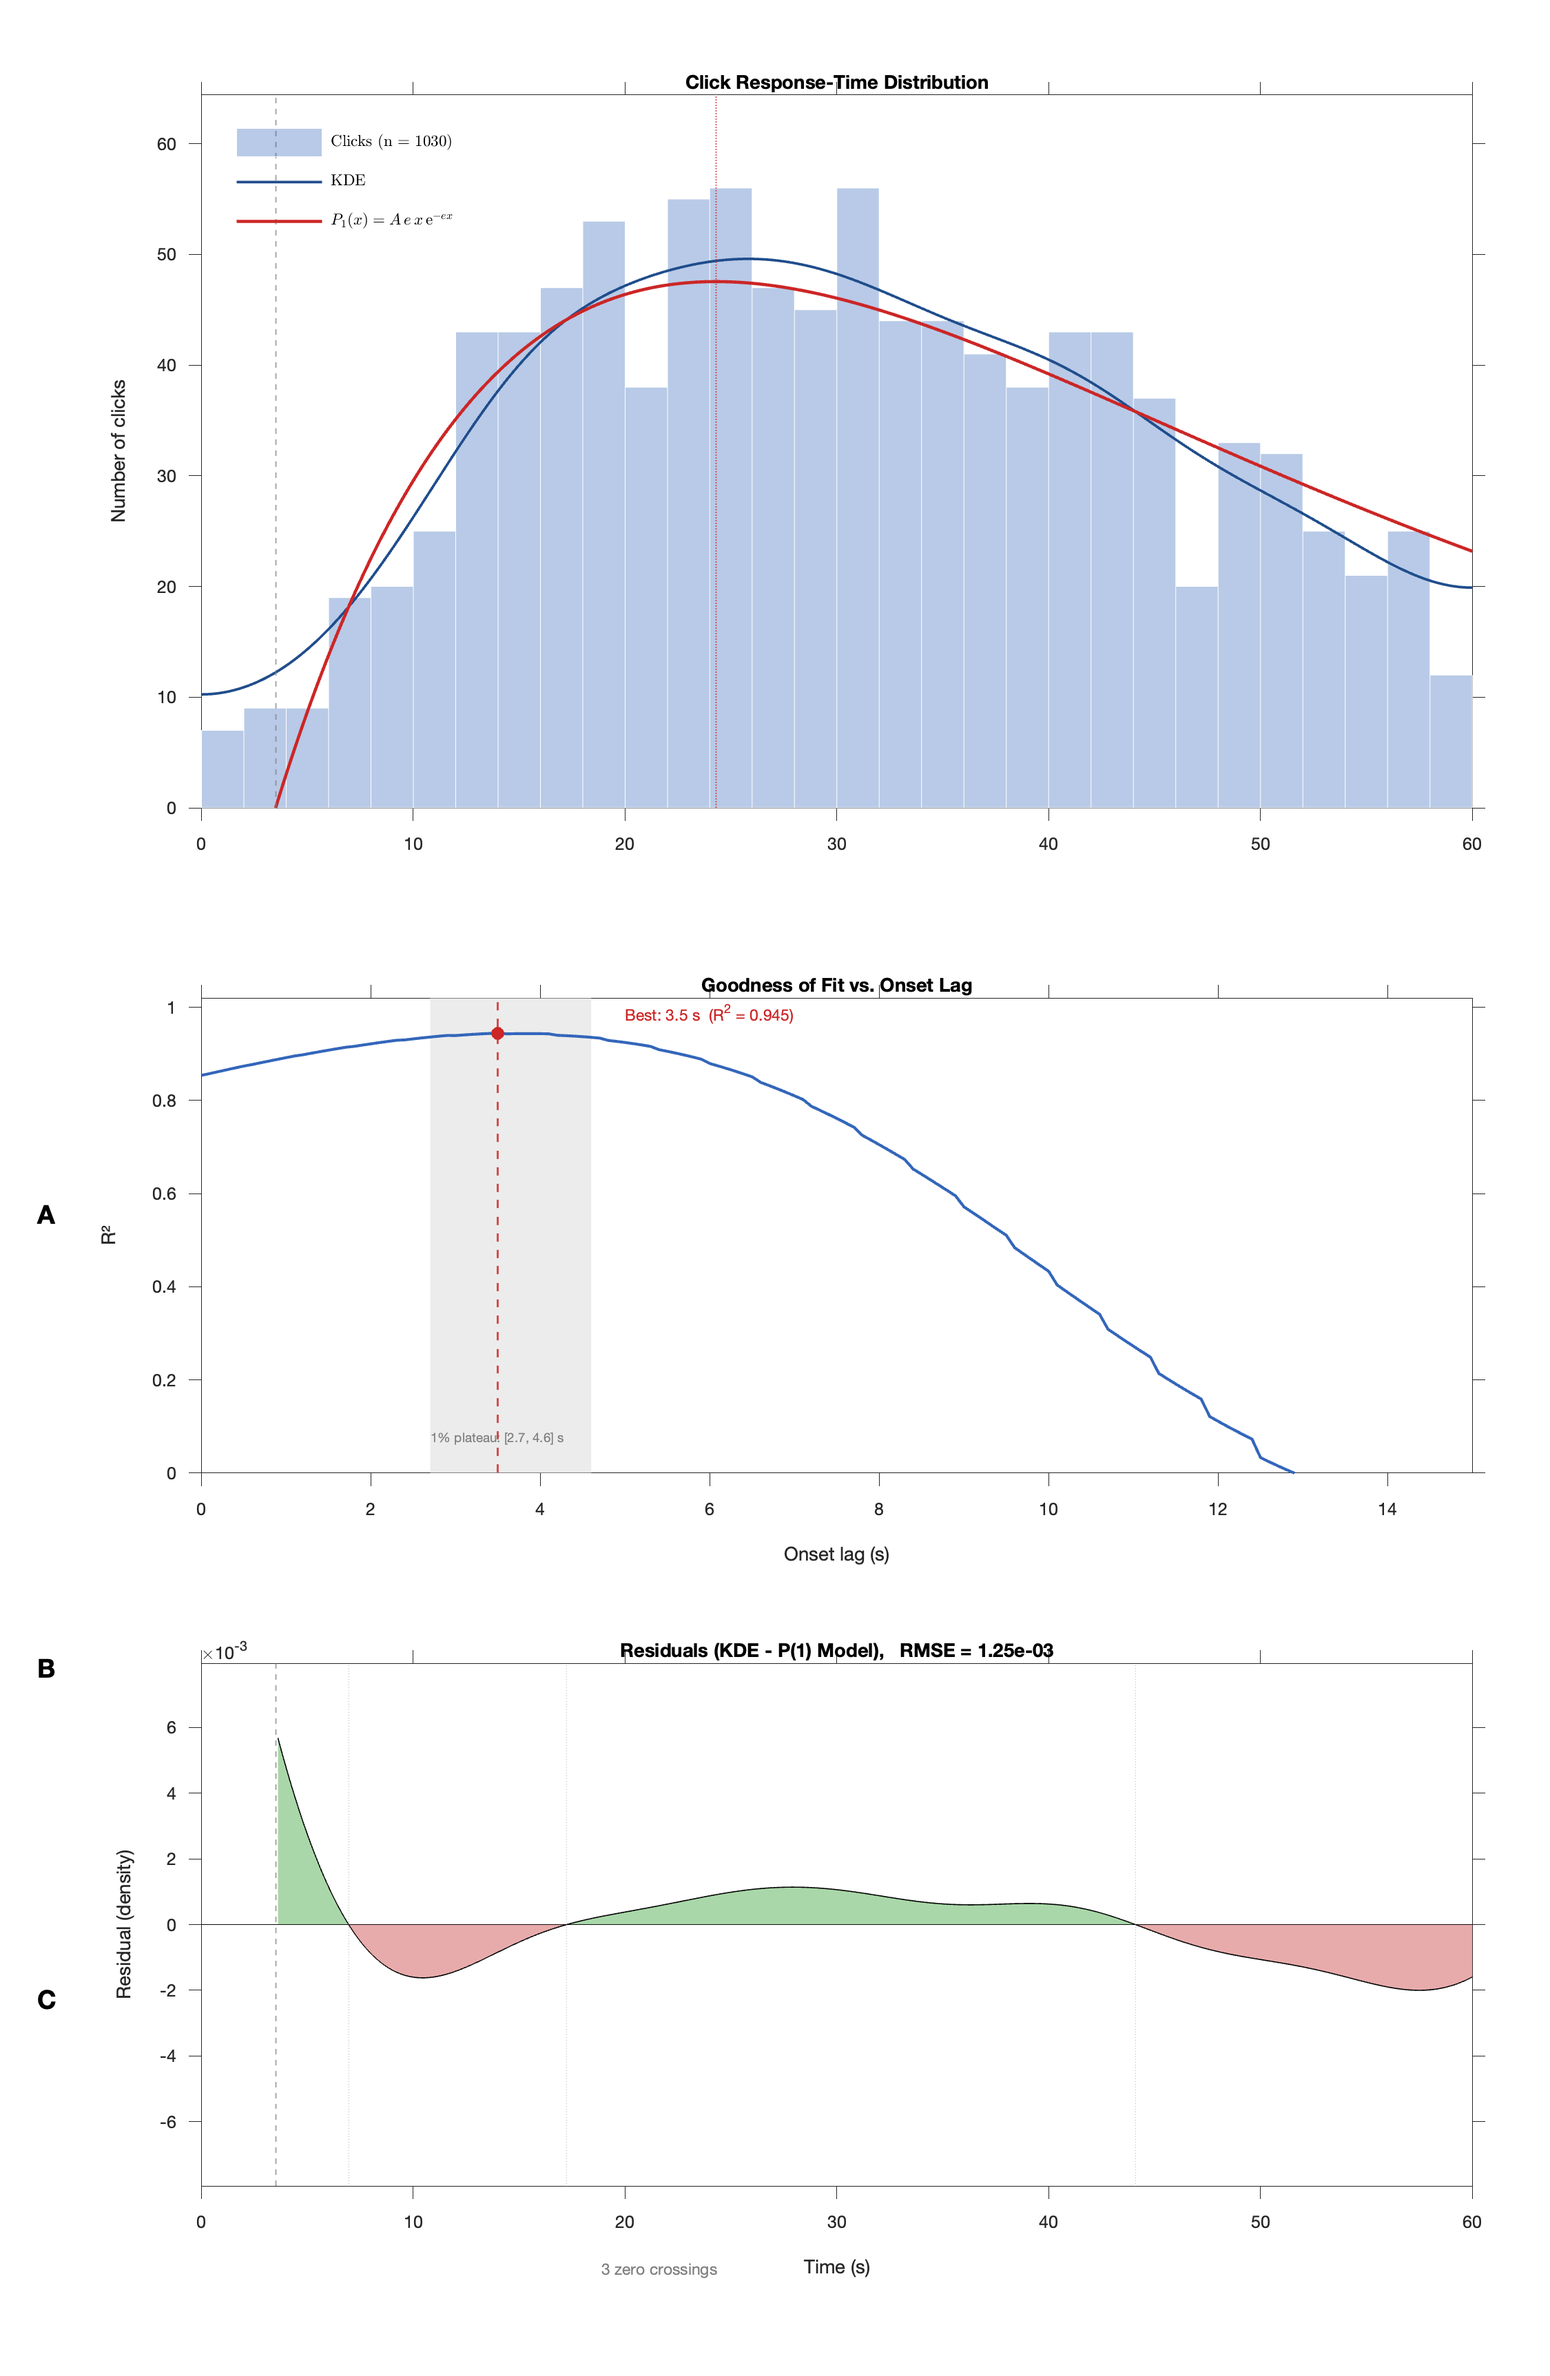
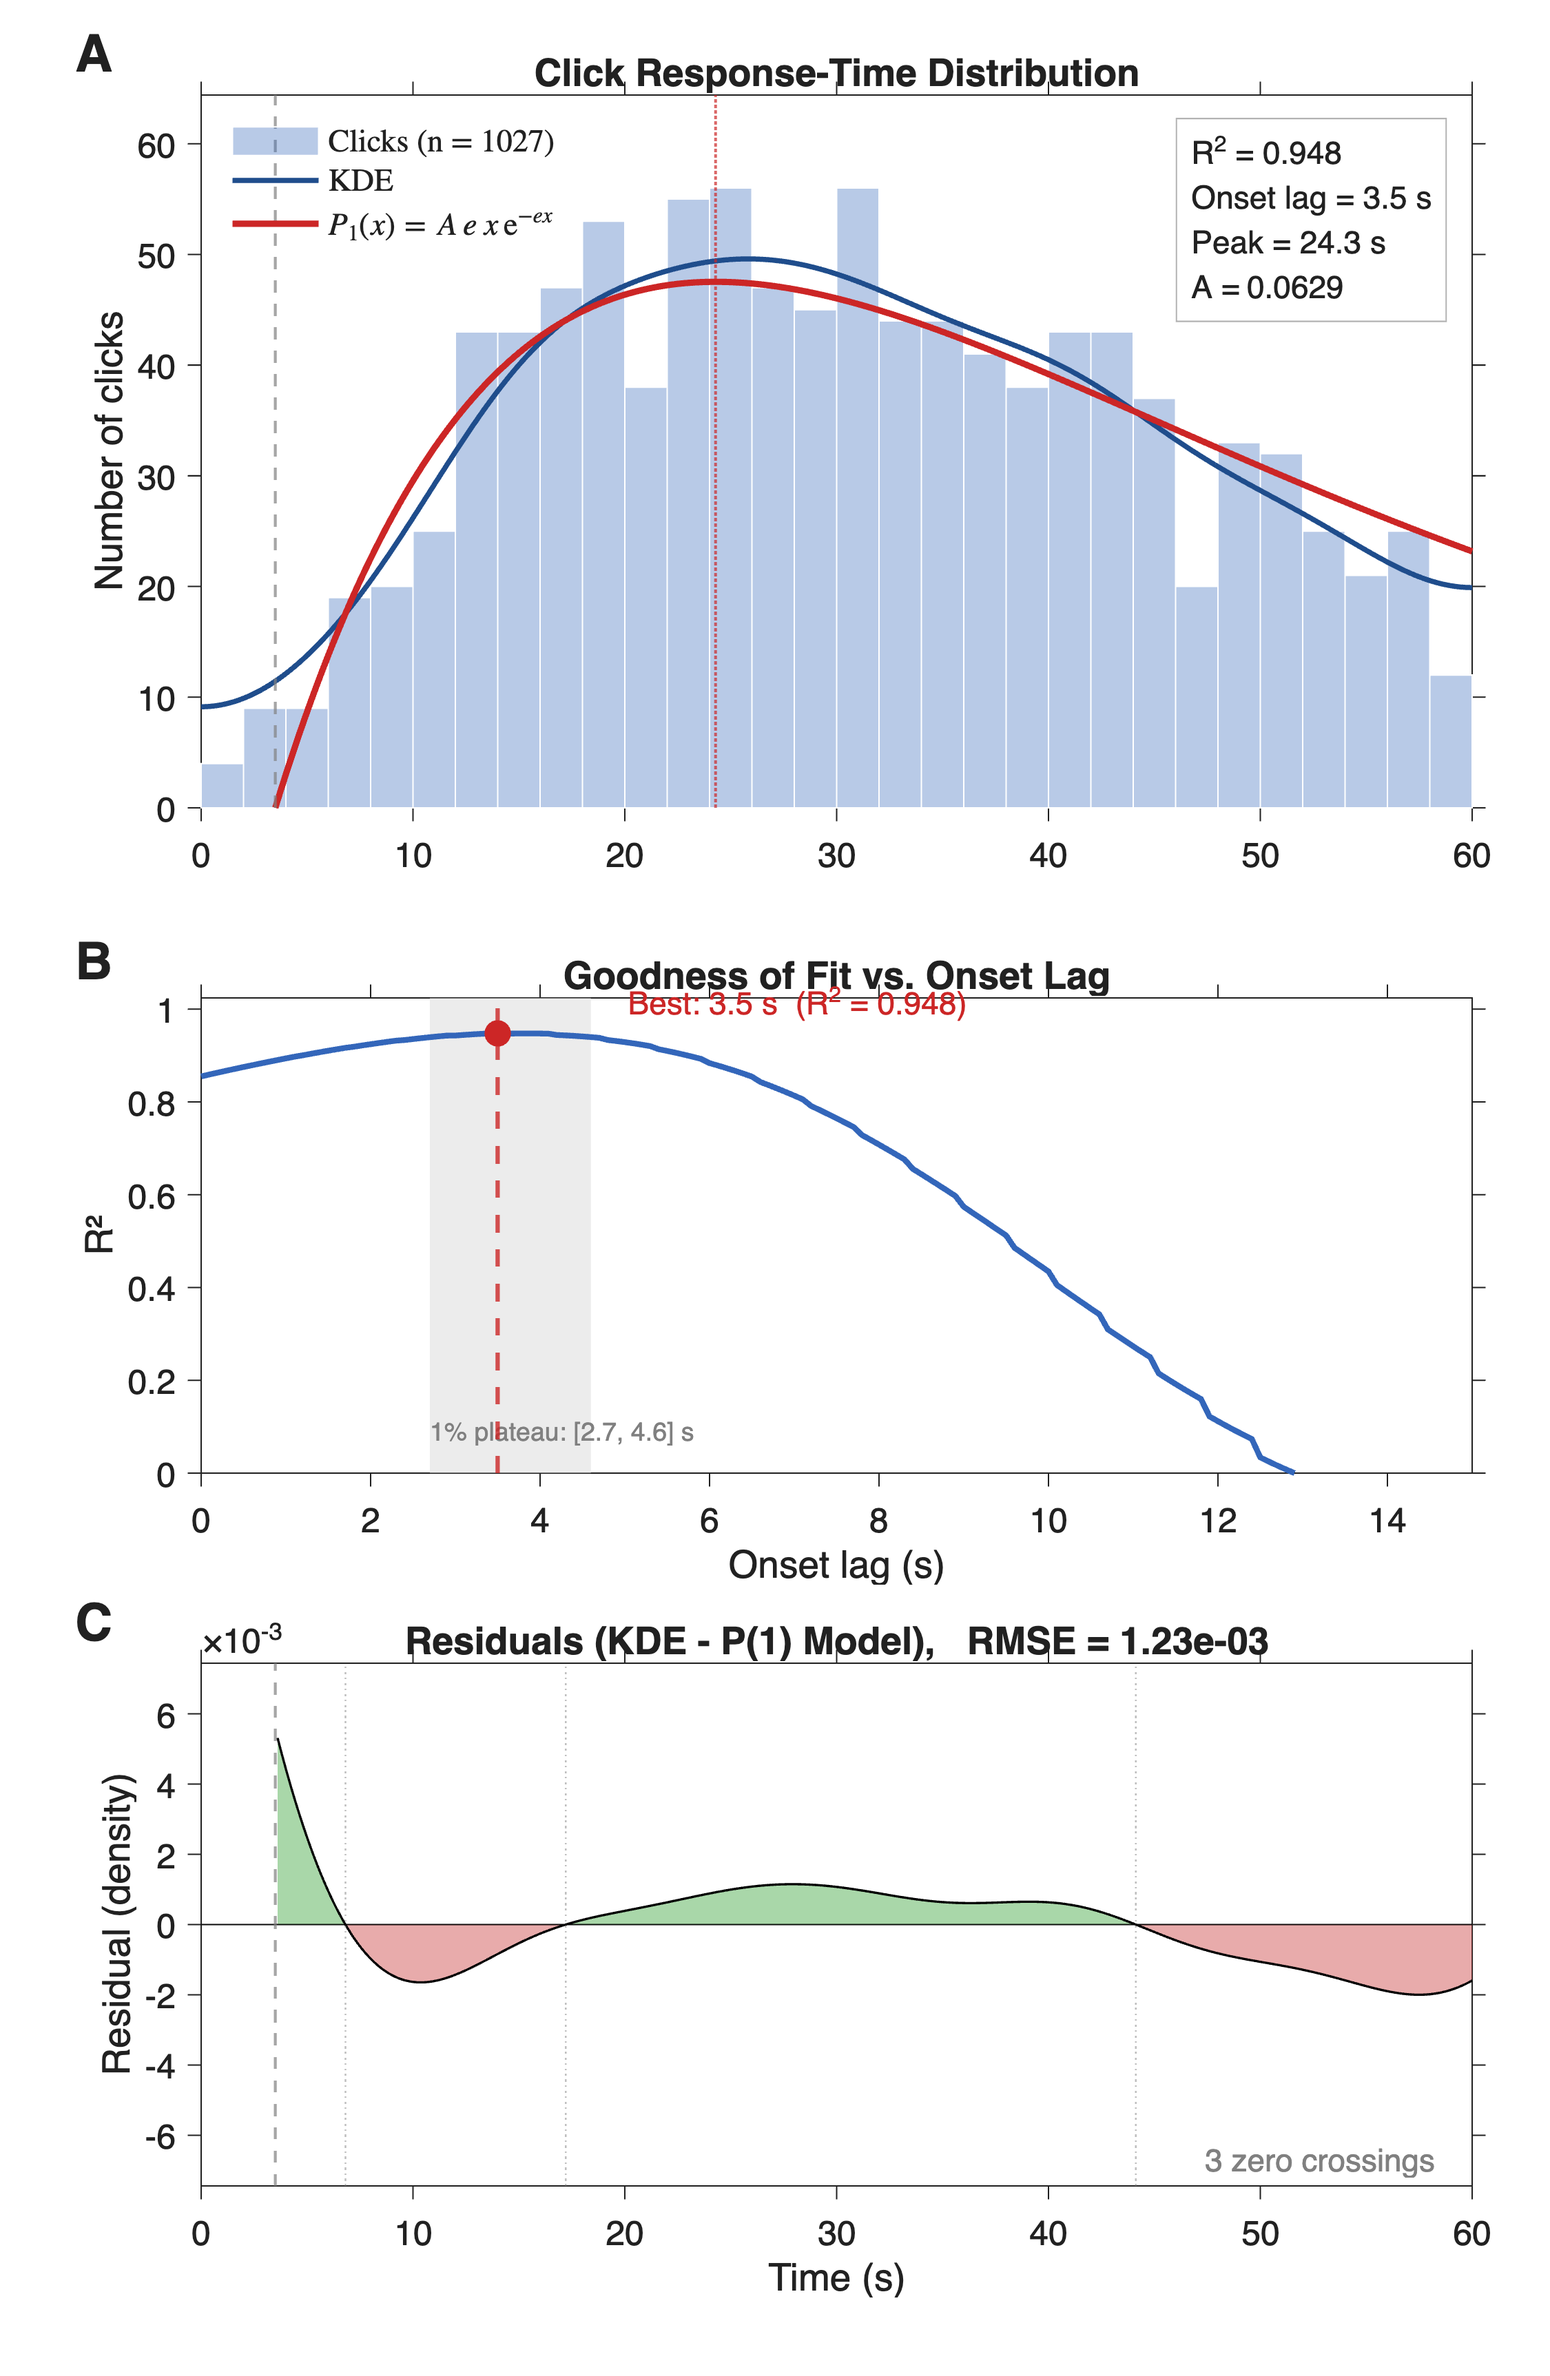
Fix goodness-of-fit methodology for clicks and respiration (audit 2026-06-09)
Clicks (plotClickTimesFigure.m): exclude clicks at exactly t=0 (held-button
onset artifacts, 3 of 1030); R^2 0.945 -> 0.948, t0/peak unchanged. Documented
the upstream rising-edge guard in preprocessClicks.m.

Respiration (plotARUFigures.m):
- Aggregate at the participant level (two-level), so the grand average and SEM
  are over N=62 participants, not 1116 trials. Fixes the ~4.2x too-narrow SEM.
- Replace the 10 s boxcar trend with a zero-phase 0.1 Hz Butterworth low-pass
  that removes the ~0.39 Hz breathing rhythm and keeps the P(1) trend. R^2
  0.981 -> 0.962 (stable 0.956-0.962 for 0.05-0.15 Hz cutoffs).
- Harmonize the onset-lag grid to [0,15] s (was [1,10]).

Figures regenerated. The modeled ARU quantity is the low-frequency trend of
mean lung-inflation level, not breath-by-breath amplitude.

diff --git a/code/analysis/plotARUFigures.m b/code/analysis/plotARUFigures.m
@@ -28,16 +28,21 @@ rest_duration = 180;
 task_samples = task_duration * fs;
 rest_samples = rest_duration * fs;
 
-smooth_window_s = 10;
-smooth_samples = smooth_window_s * fs;
+% Trend extraction: zero-phase low-pass that removes the breathing rhythm
+% (~0.39 Hz peak in these data) and keeps the slow P(1) trend. Replaces the
+% earlier 10 s boxcar moving average. Fit R^2 is stable (0.956-0.962) for
+% cutoffs 0.05-0.15 Hz; 0.10 Hz is ~4x below the breathing peak. See code
+% audit 2026-06-09.
+lp_cutoff_hz = 0.10;
+[lp_b, lp_a] = butter(4, lp_cutoff_hz / (fs/2), 'low');
 
 % P(1) model: f(x) = A0 * e * x * exp(-e * x) + B,  x = (t-t0)/(D-t0)
 % Lambda = e (fixed), T = D - t0 (fixed post-onset window).
 % Grid search over t0; for each t0, fit A0 and B.
 e_const = exp(1);
 
-% Lag time search range
-t0_search = 1.0 : 0.1 : 10.0;
+% Lag time search range (harmonized with clicks/EDA: [0, 15] s)
+t0_search = 0.0 : 0.1 : 15.0;
 
 % Figure style
 color_task = [0.8, 0.2, 0.2];
@@ -83,46 +88,54 @@ end
 task_centered = task_data.RESP_ARU - task_part_means;
 rest_centered = rest_data.RESP_ARU - rest_part_means;
 
-%% Reshape into matrices
+%% Aggregate to the PARTICIPANT level (two-level: average trials within a
+%% participant, then average across participants), so the grand average and
+%% SEM are at the participant level rather than the trial level. This fixes the
+%% pseudo-replication that made the SEM ~sqrt(1116/62)=4.2x too narrow, and
+%% matches the EDA pipeline. Trial/segment counts are kept for captions only.
 task_segments = unique(task_data(:, {'DyadID','ParticipantID','TrialNum'}), 'rows');
-n_task_seg = height(task_segments);
-task_matrix = NaN(task_samples, n_task_seg);
-
-for i = 1:n_task_seg
-    mask = task_data.DyadID == task_segments.DyadID(i) & ...
-           task_data.ParticipantID == task_segments.ParticipantID(i) & ...
-           task_data.TrialNum == task_segments.TrialNum(i);
-    vals = task_centered(mask);
-    if length(vals) == task_samples
-        task_matrix(:, i) = vals;
-    end
-end
-
+n_task_seg = height(task_segments);          % # task trials (caption only)
 rest_segments = unique(rest_data(:, {'DyadID','ParticipantID','RestNum'}), 'rows');
-n_rest_seg = height(rest_segments);
-rest_matrix = NaN(rest_samples, n_rest_seg);
+n_rest_seg = height(rest_segments);          % # rest segments (caption only)
 
-for i = 1:n_rest_seg
-    mask = rest_data.DyadID == rest_segments.DyadID(i) & ...
-           rest_data.ParticipantID == rest_segments.ParticipantID(i) & ...
-           rest_data.RestNum == rest_segments.RestNum(i);
-    vals = rest_centered(mask);
-    if length(vals) == rest_samples
-        rest_matrix(:, i) = vals;
+task_part_matrix = NaN(task_samples, n_participants);
+rest_part_matrix = NaN(rest_samples, n_participants);
+for i = 1:n_participants
+    pk = unique_parts(i);
+    pseg = task_segments(task_segments.DyadID*10 + task_segments.ParticipantID == pk, :);
+    acc = zeros(task_samples,1); k = 0;
+    for s = 1:height(pseg)
+        m = task_data.DyadID==pseg.DyadID(s) & task_data.ParticipantID==pseg.ParticipantID(s) & task_data.TrialNum==pseg.TrialNum(s);
+        v = task_centered(m);
+        if numel(v)==task_samples, acc = acc + v; k = k + 1; end
     end
+    if k>0, task_part_matrix(:,i) = acc / k; end
+
+    rseg = rest_segments(rest_segments.DyadID*10 + rest_segments.ParticipantID == pk, :);
+    acc = zeros(rest_samples,1); k = 0;
+    for s = 1:height(rseg)
+        m = rest_data.DyadID==rseg.DyadID(s) & rest_data.ParticipantID==rseg.ParticipantID(s) & rest_data.RestNum==rseg.RestNum(s);
+        v = rest_centered(m);
+        if numel(v)==rest_samples, acc = acc + v; k = k + 1; end
+    end
+    if k>0, rest_part_matrix(:,i) = acc / k; end
 end
 
-%% Grand average, SEM, smoothed
-task_mean = nanmean(task_matrix, 2);
-task_sem  = nanstd(task_matrix, 0, 2) ./ sqrt(sum(~isnan(task_matrix), 2));
+%% Grand average + participant-level SEM
 task_time = (0:task_samples-1)' / fs;
-
-rest_mean = nanmean(rest_matrix, 2);
-rest_sem  = nanstd(rest_matrix, 0, 2) ./ sqrt(sum(~isnan(rest_matrix), 2));
 rest_time = (0:rest_samples-1)' / fs;
+n_task_part = sum(all(~isnan(task_part_matrix),1));
+n_rest_part = sum(all(~isnan(rest_part_matrix),1));
+task_mean = mean(task_part_matrix, 2, 'omitnan');
+task_sem  = std(task_part_matrix, 0, 2, 'omitnan') ./ sqrt(n_task_part);
+rest_mean = mean(rest_part_matrix, 2, 'omitnan');
+rest_sem  = std(rest_part_matrix, 0, 2, 'omitnan') ./ sqrt(n_rest_part);
 
-task_smooth = movmean(task_mean, smooth_samples);
-rest_smooth = movmean(rest_mean, smooth_samples);
+%% Trend = zero-phase low-pass (removes the breathing rhythm, keeps the P(1)
+%% trend). filtfilt is linear so this equals averaging the per-participant
+%% filtered trends; the fit (below) targets this trend.
+task_smooth = filtfilt(lp_b, lp_a, task_mean);
+rest_smooth = filtfilt(lp_b, lp_a, rest_mean);
 
 %% Fit P(1) with fixed horizon T = D - t0 (normalised time)
 % For each candidate t0, normalise time to x = (t-t0)/(D-t0) in [0,1],
@@ -227,7 +240,7 @@ set(gca, 'FontSize', font_size, 'Box', 'on');
 xlim([0, rest_duration]);
 xlabel('Time (s)', 'FontSize', font_size);
 
-legend(h_smooth, sprintf('Smoothed (%ds)', smooth_window_s), ...
+legend(h_smooth, sprintf('Low-pass (%.2f Hz)', lp_cutoff_hz), ...
     'Location', 'northeast', 'FontSize', 9, 'Box', 'off');
 
 % ---- Panel B: Task Grand Average with P(1) fit ----
@@ -277,7 +290,7 @@ ylim(ax1, common_yl);
 ylim(ax2, common_yl);
 
 legend([h_smooth, h_model], ...
-    {sprintf('Smoothed (%ds)', smooth_window_s), ...
+    {sprintf('Low-pass (%.2f Hz)', lp_cutoff_hz), ...
      sprintf('P(1): A_0=%.1f, B=%.1f, \\lambda=e, T=%.1fs, t_0=%.1fs, R^2=%.3f', ...
              best_A0, best_B, best_T, best_t0, best_R2)}, ...
     'Location', 'southeast', 'FontSize', 9, 'Box', 'off');

diff --git a/code/preprocessing/preprocessClicks.m b/code/preprocessing/preprocessClicks.m
@@ -136,6 +136,15 @@ for f = 1:length(folders)
         end
 
         % --- Extract first click for each participant ---
+        % NOTE (code audit 2026-06-09): `find(button == 1, 'first')` records a
+        % press even when the button is already held at the first sample
+        % (t = 0), which injected 3 artifactual t = 0 clicks. The correct guard
+        % is a rising-edge test, e.g. for participant 1:
+        %   b0_press = data.button0 == 1 & [false; data.button0(1:end-1) == 0];
+        %   b0_idx   = find(b0_press, 1, 'first');
+        % Left as the simple find() here for byte-identical reproduction of the
+        % committed CSV; the analysis script excludes t = 0 downstream. Enable
+        % the rising-edge guard when reprocessing from raw data.
         % Participant 1 (button0)
         b0_idx = find(data.button0 == 1, 1, 'first');
         if ~isempty(b0_idx)

diff --git a/code/analysis/plotClickTimesFigure.m b/code/analysis/plotClickTimesFigure.m
@@ -45,7 +45,11 @@ data = readtable('../../data/ClickTimes/ClickResponseTimes.csv');
 
 clickTimes = data.ClickTime_s(data.Clicked == 1);
 clickTimes = clickTimes(~isnan(clickTimes));
-clickTimes = clickTimes(clickTimes >= 0 & clickTimes < 60);
+% Exclude clicks at exactly t = 0 s: a button already held at trial onset is a
+% logging artifact (held button / no rising edge), not an in-trial response.
+% Affects 3 of 1030 clicks; R^2 0.945 -> 0.948, t0/peak unchanged. The upstream
+% rising-edge guard belongs in preprocessClicks.m. See code audit 2026-06-09.
+clickTimes = clickTimes(clickTimes > 0 & clickTimes < 60);
 
 T        = 60;                             % Trial duration (s)
 lambda   = exp(1);                         % Rate parameter fixed at e
